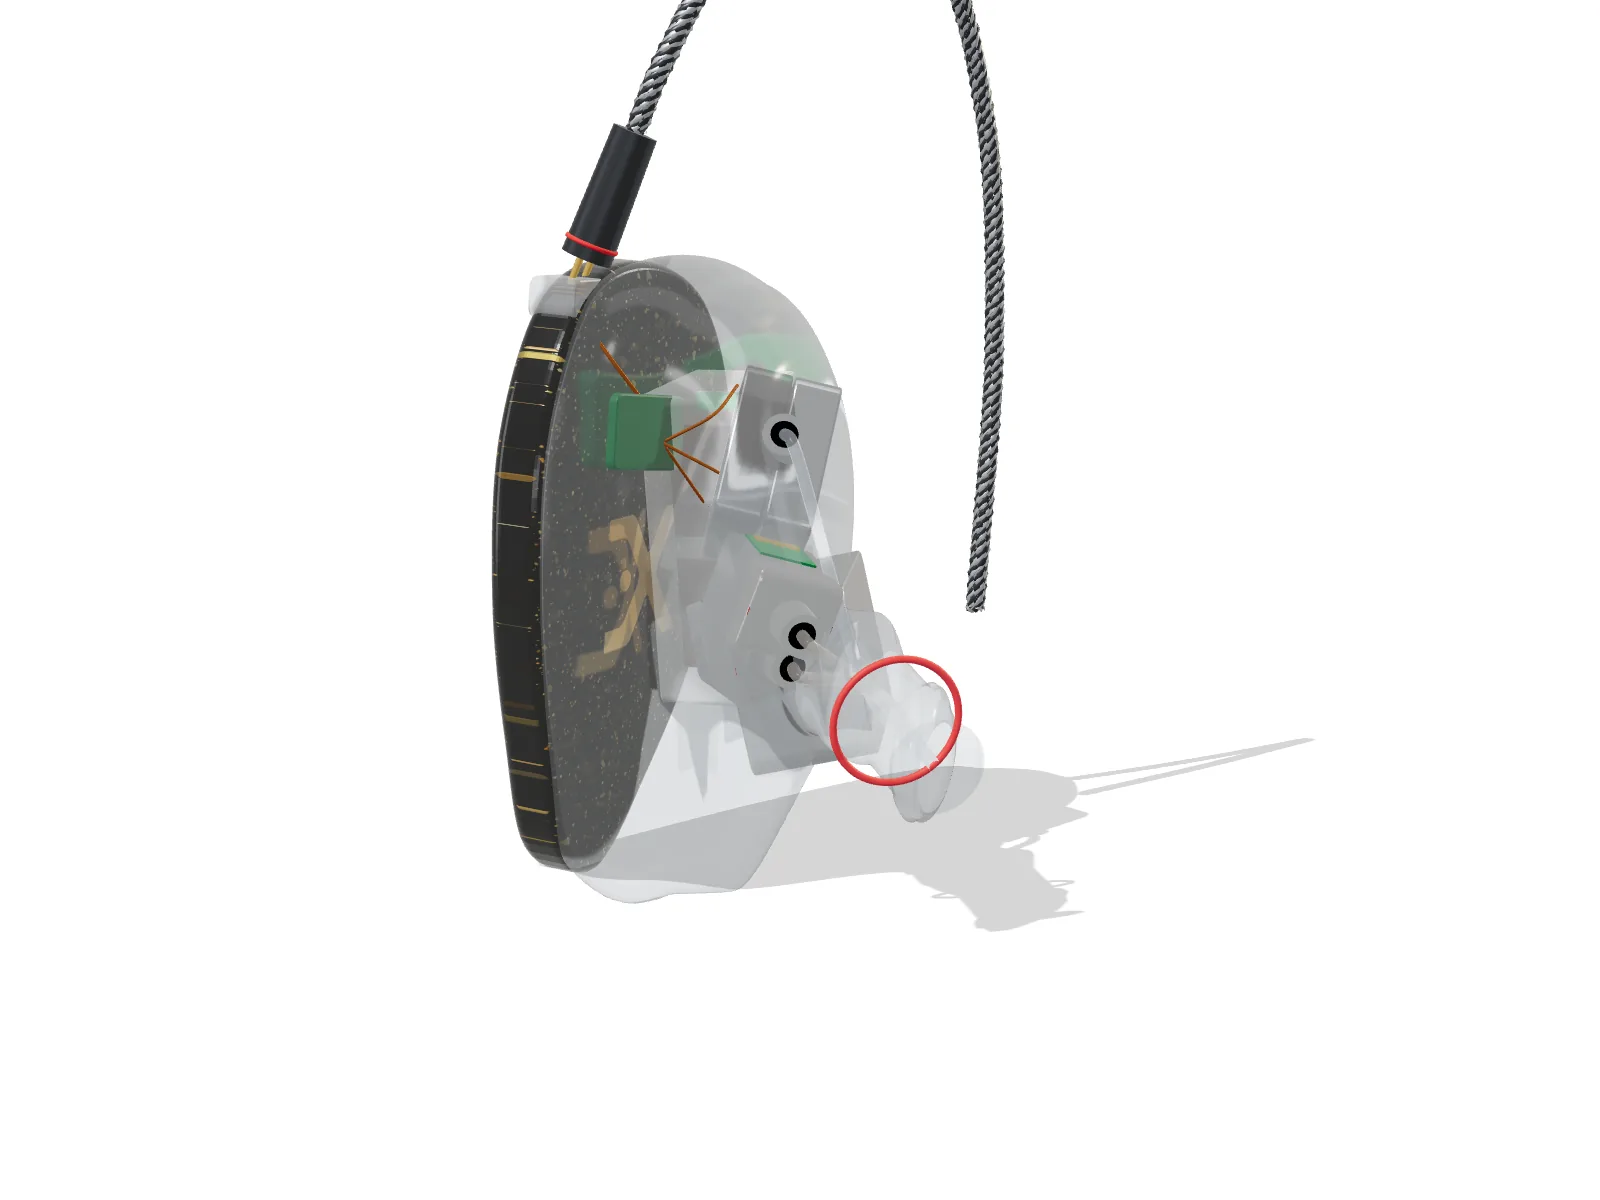
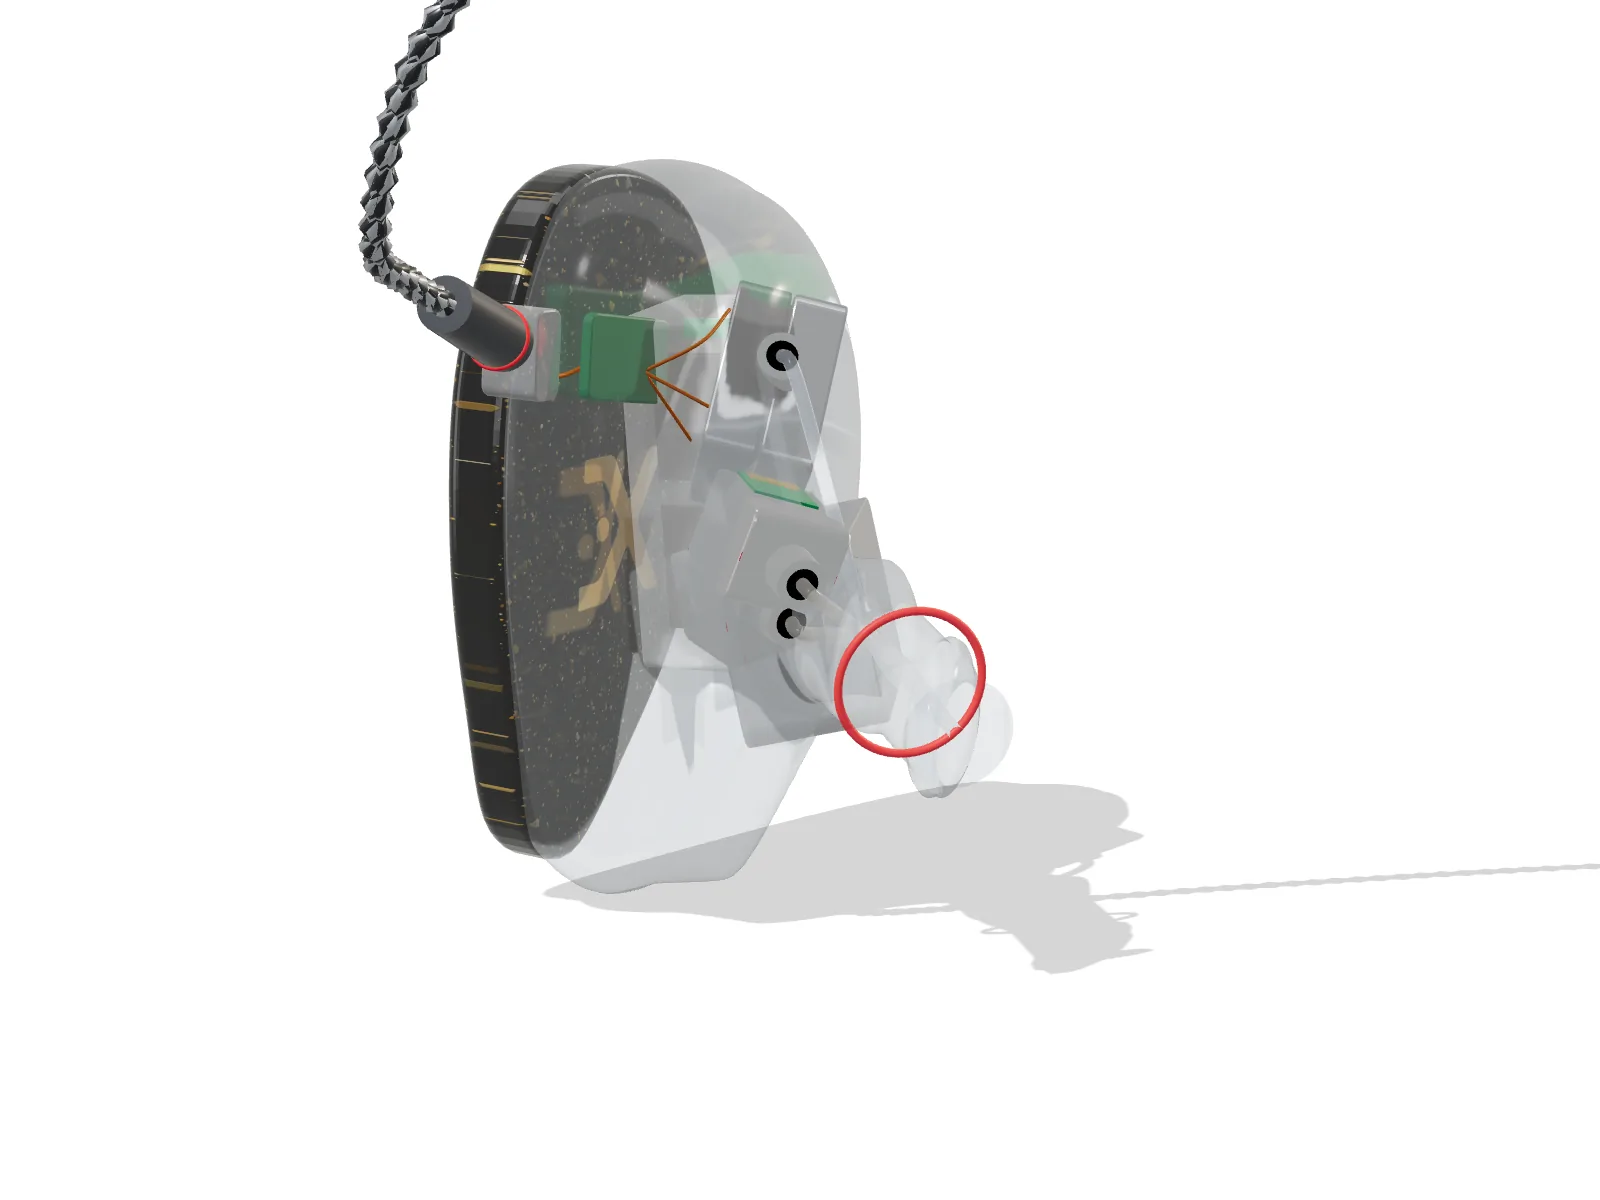
Conector do cabo na lateral externa do fone
- Soquete 2 pinos na lateral de fora, conector saindo quase na horizontal e o cabo subindo depois
- 3D da pagina centralizado pelo corpo (o cabo longo deslocava o fone)
- Versao nos assets para nao servir JS antigo do cache

Changed region(s): [[0.2188, 0.0, 0.8125, 0.8325], [0.7812, 0.7092, 1.0, 0.74]]

diff --git a/assets/xe-est-model.js b/assets/xe-est-model.js
@@ -344,14 +344,14 @@
     groups.face = new THREE.Group(); groups.face.add(face);
 
     // soquete 2 pinos na borda de cima e o conector do cabo balanceado (alumínio grafite, pinos dourados)
-    var SOCK = new THREE.Vector3(0.3, 0.9, 0.44);
-    var sock = new THREE.Mesh(roundedBox(0.24, 0.12, 0.16, 0.035), new THREE.MeshPhysicalMaterial({ color: 0xdfe4ea, transmission: 0.7, roughness: 0.15, thickness: 0.1, transparent: true, opacity: 0.8 }));
+    var SOCK = new THREE.Vector3(0.6, 0.5, 0.3);
+    var sock = new THREE.Mesh(roundedBox(0.12, 0.24, 0.16, 0.035), new THREE.MeshPhysicalMaterial({ color: 0xdfe4ea, transmission: 0.7, roughness: 0.15, thickness: 0.1, transparent: true, opacity: 0.8 }));
     sock.position.copy(SOCK); groups.face.add(sock);
-    var cDir = new THREE.Vector3(-0.12, 1, -0.32).normalize(), cQ = new THREE.Quaternion().setFromUnitVectors(new THREE.Vector3(0, 1, 0), cDir);
+    var cDir = new THREE.Vector3(1, 0.3, -0.18).normalize(), cQ = new THREE.Quaternion().setFromUnitVectors(new THREE.Vector3(0, 1, 0), cDir);
     var goldMat = new THREE.MeshStandardMaterial({ color: 0xe3bd6a, metalness: 1, roughness: 0.18 });
     for (var pi = 0; pi < 2; pi++) {
       var pin = new THREE.Mesh(new THREE.CylinderGeometry(0.012, 0.012, 0.1, 10), goldMat);
-      pin.position.copy(SOCK).add(new THREE.Vector3(pi ? 0.04 : -0.04, 0.0, 0)).addScaledVector(cDir, 0.1); pin.quaternion.copy(cQ); groups.face.add(pin);
+      pin.position.copy(SOCK).add(new THREE.Vector3(0, pi ? 0.04 : -0.04, 0)).addScaledVector(cDir, 0.1); pin.quaternion.copy(cQ); groups.face.add(pin);
     }
     var gun = new THREE.MeshPhysicalMaterial({ color: 0x4b4e53, metalness: 0.88, roughness: 0.34, clearcoat: 0.4, clearcoatRoughness: 0.25 });
     var CON_LEN = 0.44, conStart = SOCK.clone().addScaledVector(cDir, 0.14);
@@ -364,13 +364,14 @@
     // cabo balanceado: 8 núcleos prateados trançados, saindo do conector e fazendo o gancho por cima da orelha
     if (opts.cable) {
       var O = conEnd;
-      var path = [O, O.clone().addScaledVector(cDir, 0.22), new THREE.Vector3(O.x - 0.2, O.y + 0.62, O.z - 0.22), new THREE.Vector3(O.x - 0.62, O.y + 0.86, O.z - 0.42),
-                  new THREE.Vector3(O.x - 1.08, O.y + 0.68, O.z - 0.6), new THREE.Vector3(O.x - 1.34, O.y + 0.12, O.z - 0.72), new THREE.Vector3(O.x - 1.4, O.y - 0.7, O.z - 0.8),
-                  new THREE.Vector3(O.x - 1.36, O.y - 1.7, O.z - 0.82)];
+      // sai para o lado de fora, sobe e passa por trás, como o gancho de orelha nas fotos reais
+      var path = [O, O.clone().addScaledVector(cDir, 0.25), new THREE.Vector3(O.x + 0.48, O.y + 0.16, O.z - 0.12), new THREE.Vector3(O.x + 0.62, O.y + 0.6, O.z - 0.32),
+                  new THREE.Vector3(O.x + 0.52, O.y + 1.2, O.z - 0.8), new THREE.Vector3(O.x + 0.28, O.y + 1.9, O.z - 1.6), new THREE.Vector3(O.x + 0.02, O.y + 2.8, O.z - 2.8),
+                  new THREE.Vector3(O.x - 0.2, O.y + 3.8, O.z - 3.9)];
       var silver = new THREE.MeshPhysicalMaterial({ color: 0xb9bdc3, metalness: 0.9, roughness: 0.3, clearcoat: 0.6, clearcoatRoughness: 0.2 });
       var dark = new THREE.MeshPhysicalMaterial({ color: 0x3c3f44, metalness: 0.75, roughness: 0.36, clearcoat: 0.6, clearcoatRoughness: 0.2 });
       var strands = opts.lite ? [silver, dark, silver, dark] : [silver, dark, silver, dark, silver, dark, silver, dark];
-      var braid = twisted(path, strands, opts.lite ? 0.026 : 0.019, 26);
+      var braid = twisted(path, strands, opts.lite ? 0.026 : 0.019, 40);
       groups.face.add(braid);
     }
     root.add(groups.face);
@@ -436,7 +437,7 @@
     // fiação de cobre: soquete -> crossover -> cada via
     var wireMat = new THREE.MeshStandardMaterial({ color: COLORS.copper, metalness: 1, roughness: 0.35, transparent: true, opacity: 1 });
     groups.wires = new THREE.Group();
-    groups.wires.add(tube([[SOCK.x, SOCK.y - 0.06, SOCK.z - 0.04], [0.25, 0.7, 0.3], [0.16, 0.56, 0.22]], 0.007, wireMat));
+    groups.wires.add(tube([[SOCK.x - 0.06, SOCK.y, SOCK.z - 0.04], [0.4, 0.42, 0.3], [0.16, 0.5, 0.22]], 0.007, wireMat));
     [new THREE.Vector3(-0.55, 0, 0).applyMatrix4(xf.matrix).add(new THREE.Vector3(0, 1.1, 0)), new THREE.Vector3(-0.26, 0, 0).applyMatrix4(md.matrix), new THREE.Vector3(-0.39, 0, 0).applyMatrix4(bd.matrix)].forEach(function (p, i) {
       var q = i === 0 ? new THREE.Vector3(-0.3, 0.6, 0.1) : p;
       groups.wires.add(tube([[0.06, 0.42, 0.2], [(q.x + 0.06) / 2, (q.y + 0.42) / 2, Math.max(q.z, 0.05)], [q.x, q.y, q.z]], 0.0055, wireMat));

diff --git a/index.html b/index.html
@@ -39,7 +39,7 @@ body { margin: 0; background: #fff; }
 .grid-product__image-wrap img { width: 100%; height: auto; aspect-ratio: 1; object-fit: cover; display: block; }
 @media (max-width: 768px) { .product-single__meta { padding-top: 22px; } }
 </style>
-<link rel="stylesheet" href="assets/xe-est.css">
+<link rel="stylesheet" href="assets/xe-est.css?v=5">
 </head>
 <body class="template-product">
 
@@ -402,7 +402,7 @@ body { margin: 0; background: #fff; }
 </footer>
 
 <script defer src="https://cdn.jsdelivr.net/npm/three@0.160.0/build/three.min.js"></script>
-<script defer src="assets/xe-est-model.js"></script>
-<script defer src="assets/xe-est.js"></script>
+<script defer src="assets/xe-est-model.js?v=5"></script>
+<script defer src="assets/xe-est.js?v=5"></script>
 </body>
 </html>

diff --git a/assets/xe-est.js b/assets/xe-est.js
@@ -45,7 +45,7 @@
     logo.onload = logo.onerror = function () {
       model = XEModel.buildIEM({ logo: logo, cable: true, shellOpacity: 0.42, lite: true });
       // centraliza o volume do fone no pivô
-      var box = new THREE.Box3().setFromObject(model.root), c = box.getCenter(new THREE.Vector3());
+      var box = new THREE.Box3().setFromObject(model.groups.shell), c = box.getCenter(new THREE.Vector3());
       model.root.position.sub(c);
       pivot.add(model.root);
       // compila os shaders antes do primeiro quadro para não travar no início do scroll
